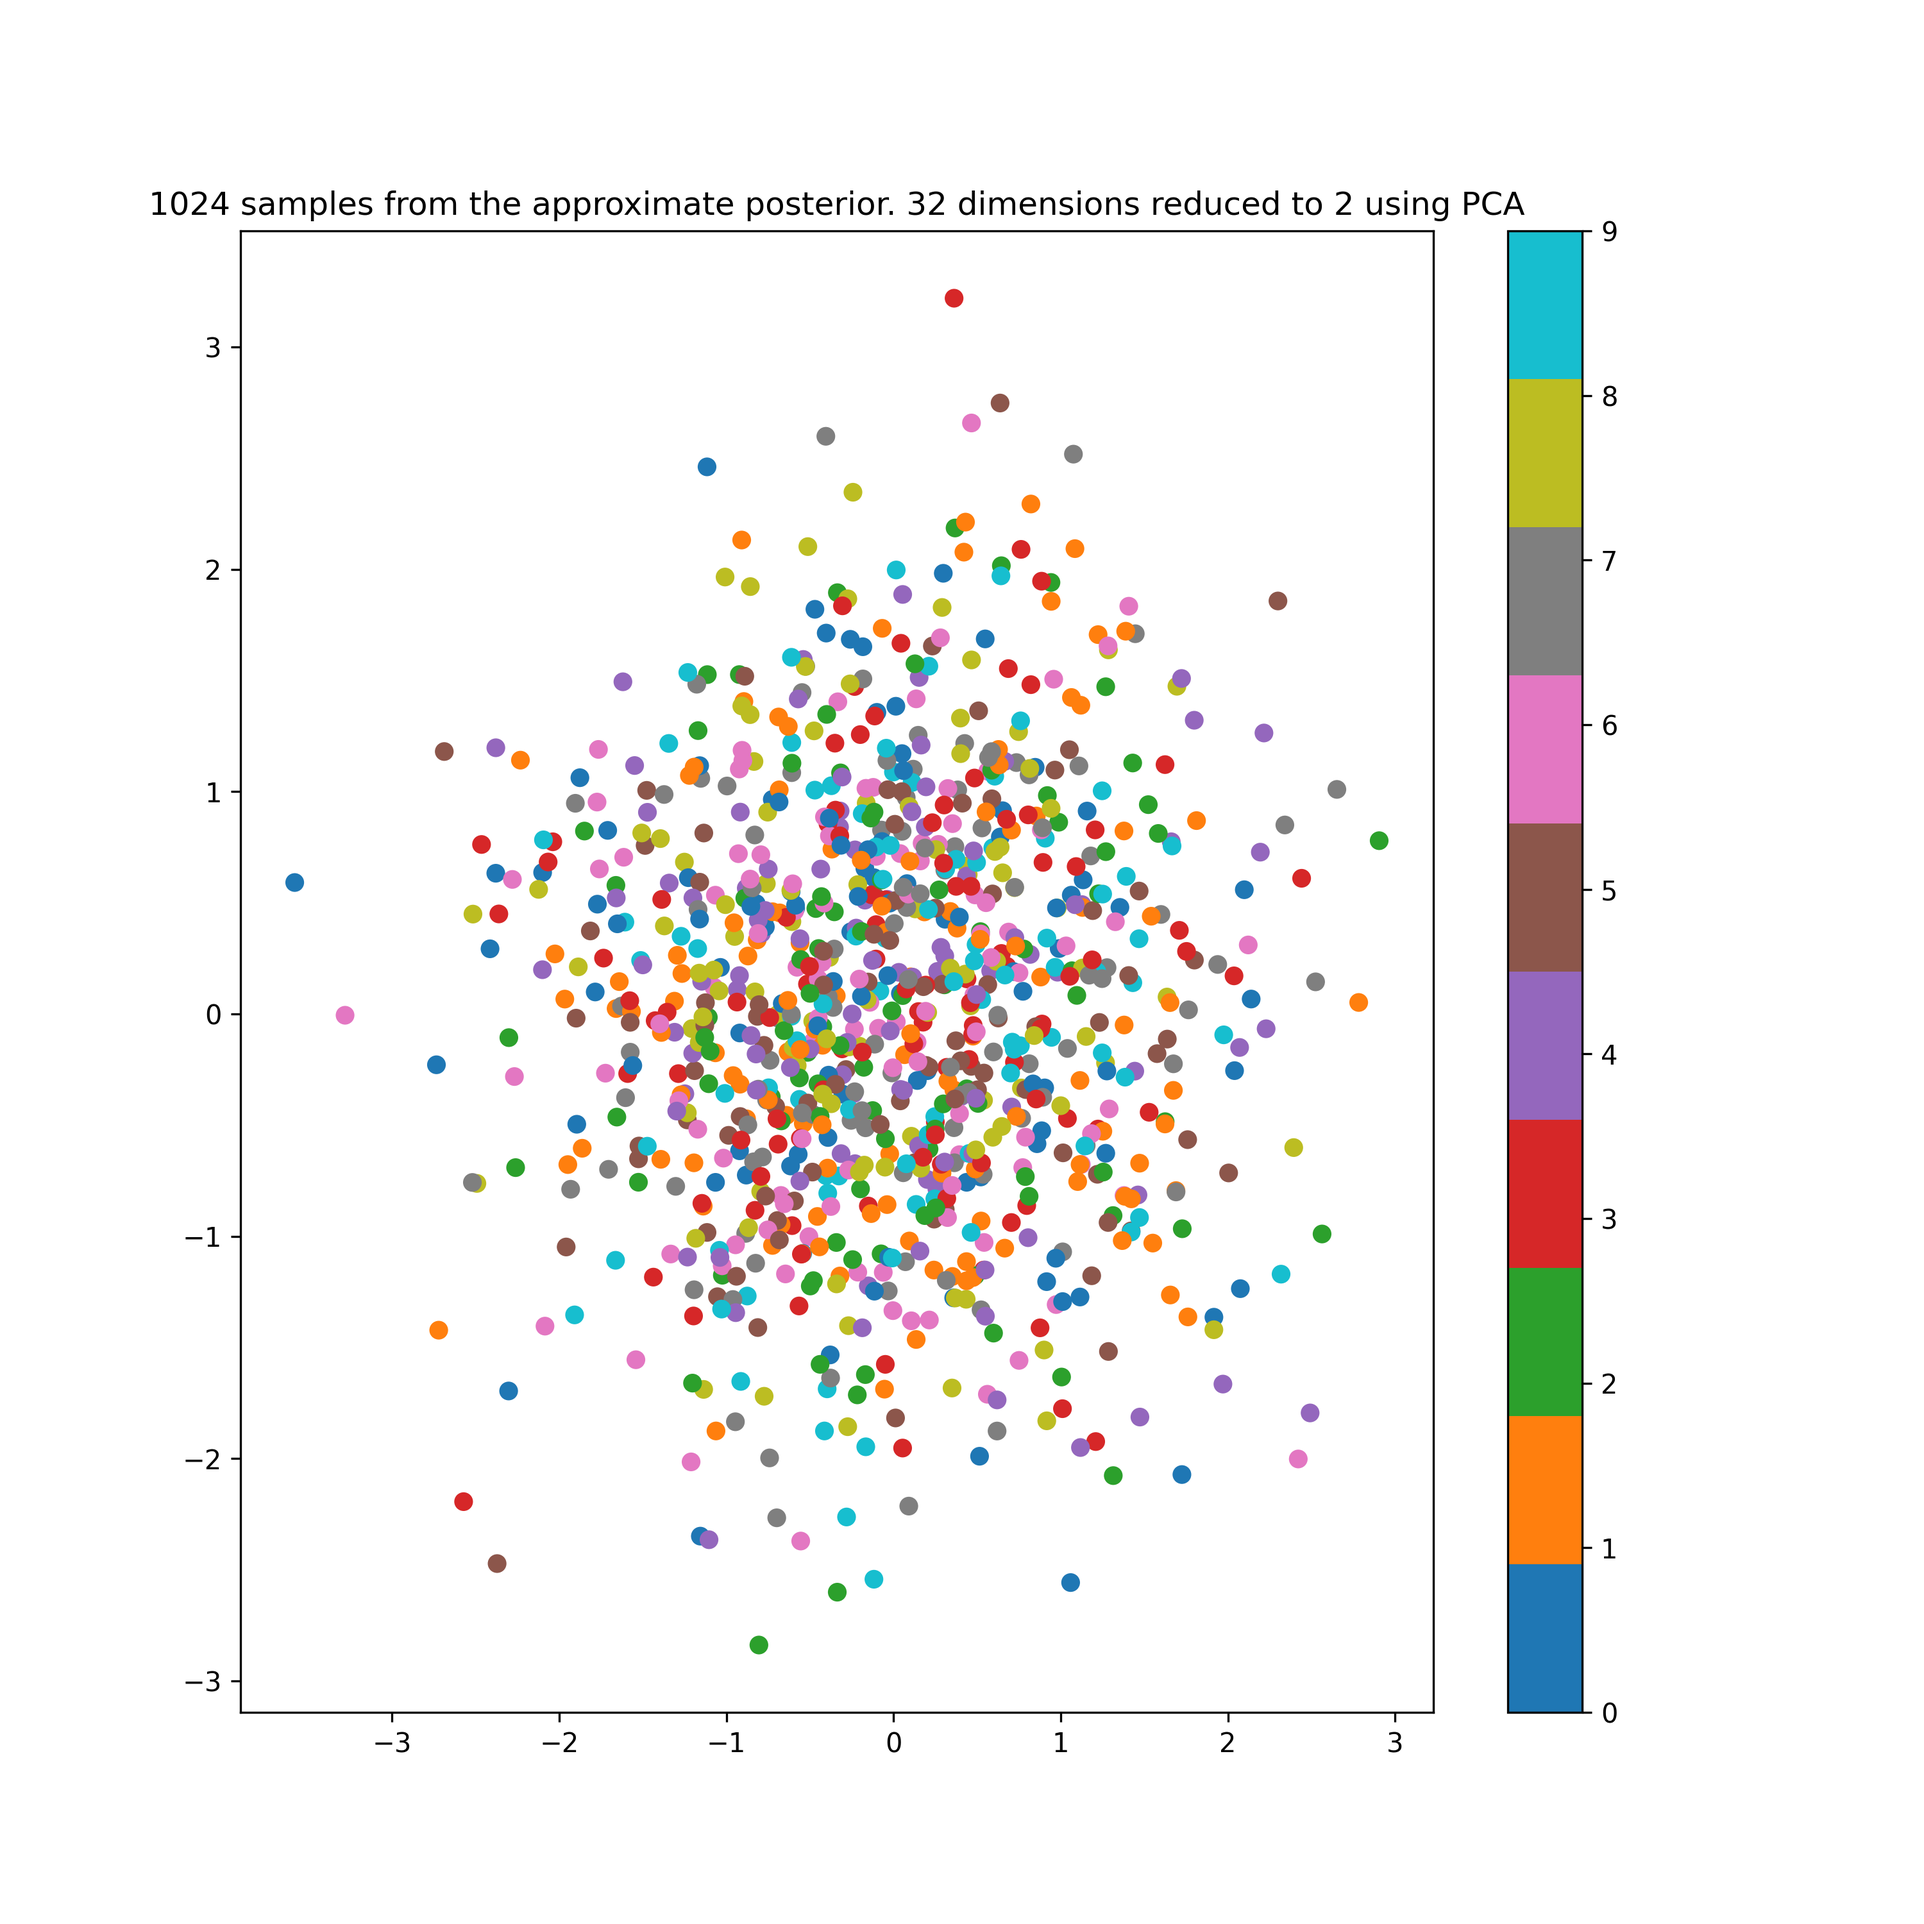
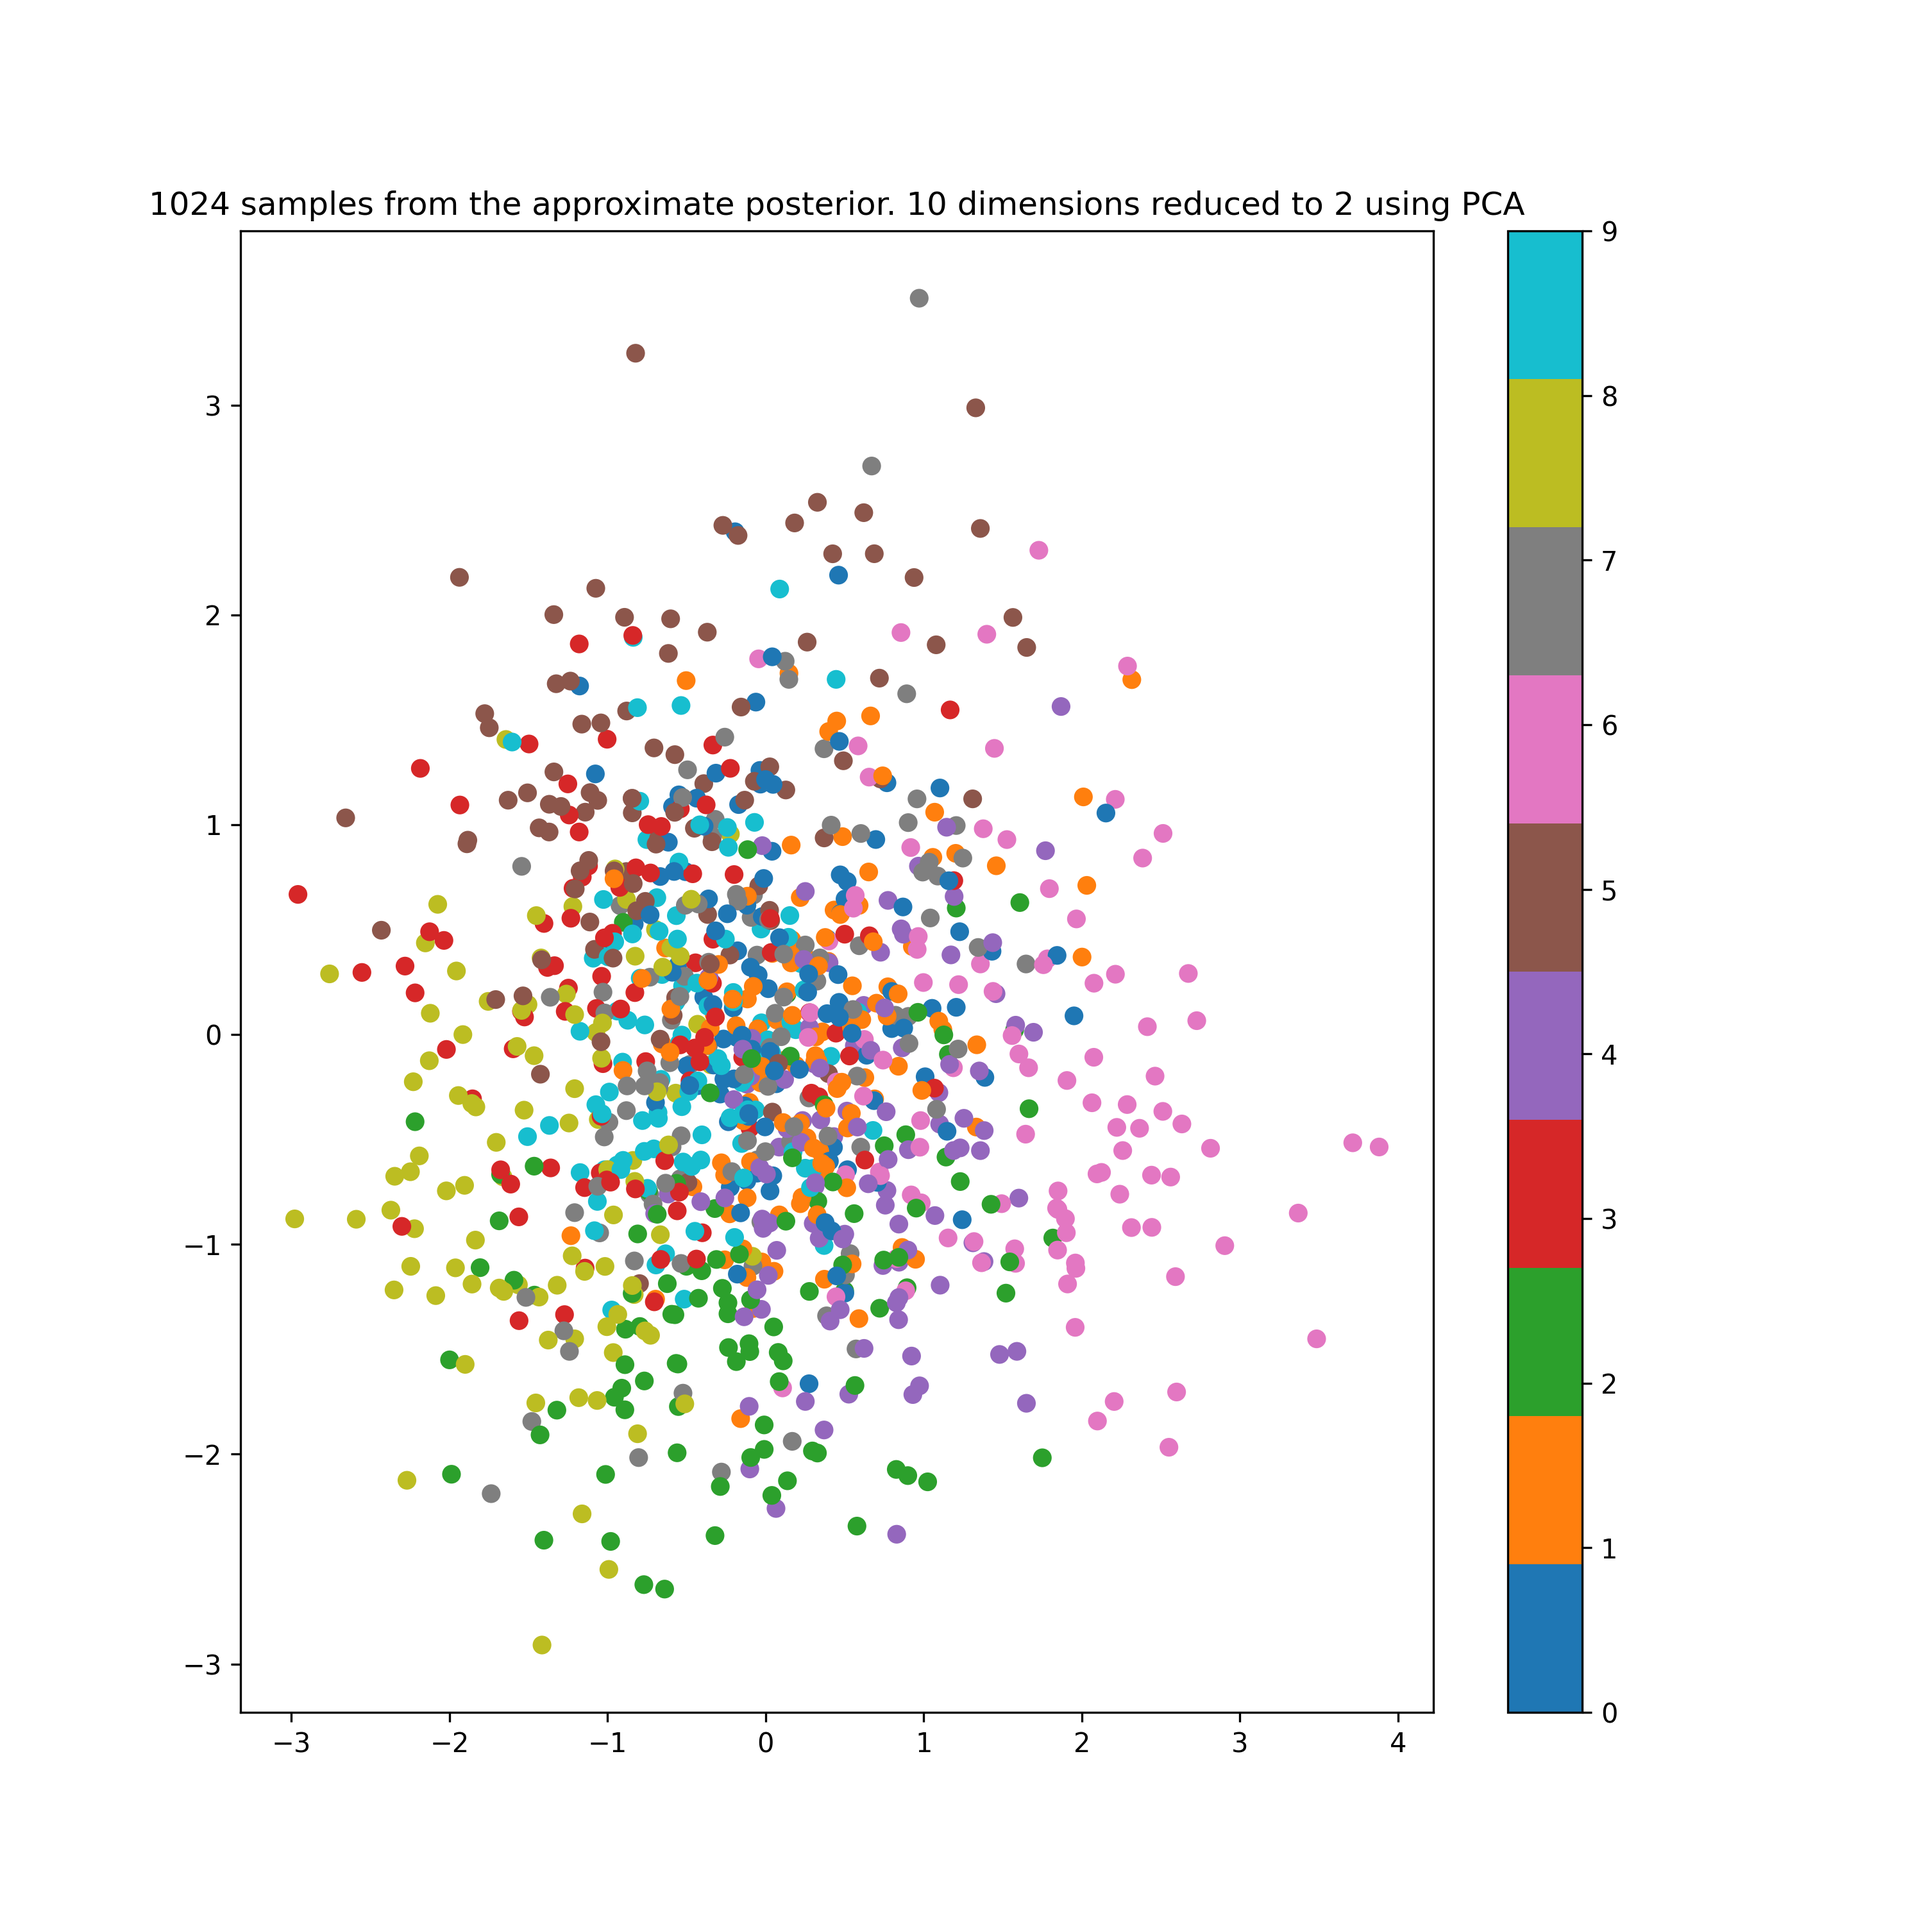
add posterior pca plot

diff --git a/src/mamll/dgm/models/vae.py b/src/mamll/dgm/models/vae.py
@@ -2,6 +2,7 @@ import torch
 import torch.nn as nn
 import torch.distributions as td
 import torch.utils.data
+from torch.distributions import Normal, Categorical, MixtureSameFamily
 
 class GaussianPrior(nn.Module):
     """Gaussian prior distribution."""
@@ -191,3 +192,26 @@ class VAE(nn.Module):
             torch.Tensor: The negative ELBO for the given batch of data.
         """
         return -self.elbo(x)
+
+class MoGVAE(VAE):
+    def __init__(self, prior: torch.nn.Module, decoder: torch.nn.Module, encoder: torch.nn.Module, num_components=10):
+        super(MoGVAE, self).__init__(prior, decoder, encoder)
+
+        # Define the component distribution
+        self.component_distribution = Normal(torch.zeros(num_components), torch.ones(num_components))
+
+        # Define the mixture distribution
+        self.mixture_distribution = Categorical(torch.ones(num_components,)/num_components)
+
+        # Define the MoG prior
+        self.mog_prior = MixtureSameFamily(self.mixture_distribution, self.component_distribution)
+
+    def elbo(self, x: torch.Tensor) -> torch.Tensor:
+        q = self.encoder(x)
+        z = self.mog_prior.sample(torch.Size([x.shape[0]]))  # Sample from the MoG prior
+        elbo = torch.mean(self.decoder(z).log_prob(x) - td.kl_divergence(q, self.mog_prior), dim=0)
+        return elbo
+
+    def sample_posterior(self, x: torch.Tensor, n_samples:int=1) -> torch.Tensor:
+        z = self.mog_prior.sample(torch.Size([n_samples]))  # Sample from the MoG prior
+        return z

diff --git a/src/mamll/dgm/vae_bernoulli.py b/src/mamll/dgm/vae_bernoulli.py
@@ -102,7 +102,7 @@ if __name__ == "__main__":
     parser.add_argument('--batch-size', type=int, default=64, metavar='N', help='batch size for training (default: %(default)s)')
     parser.add_argument('--epochs', type=int, default=10, metavar='N', help='number of epochs to train (default: %(default)s)')
     parser.add_argument('--latent-dim', type=int, default=32, metavar='N', help='dimension of latent variable (default: %(default)s)')
-    parser.add_argument('--sample_posterior', type=str, default='posterior_samples.png', help='sample from the posterior distribution (default: %(default)s)')
+    parser.add_argument('--sample_posterior', type=str, default='posterior_samples.png', help='file to save posterior sample plot in (default: %(default)s)')
 
     args = parser.parse_args()
     print('# Options')
